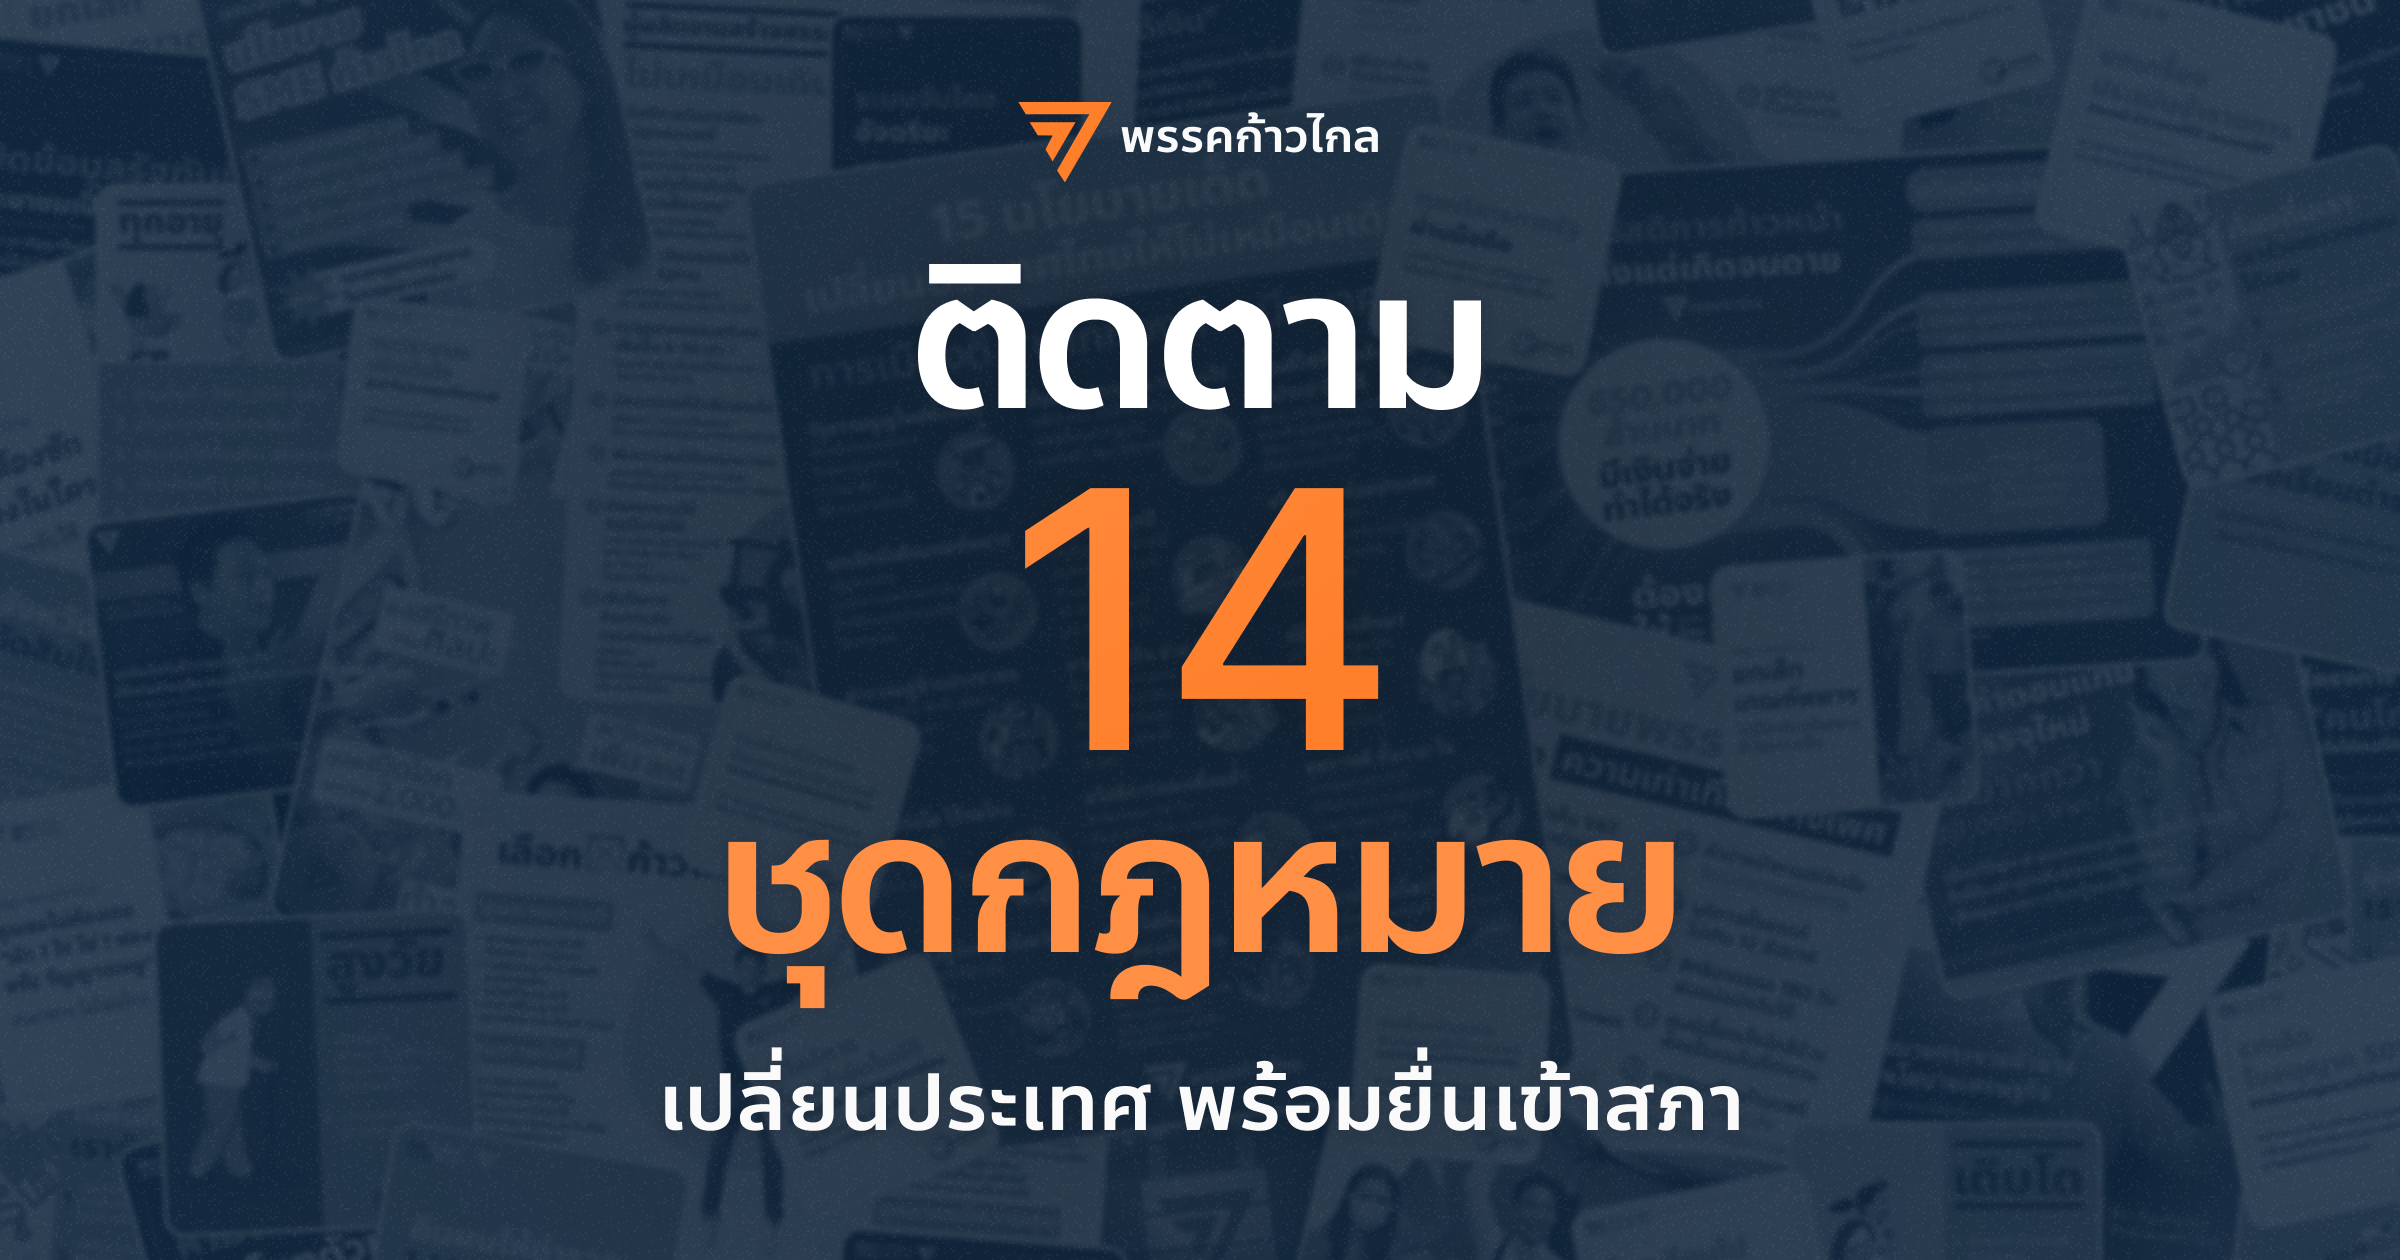
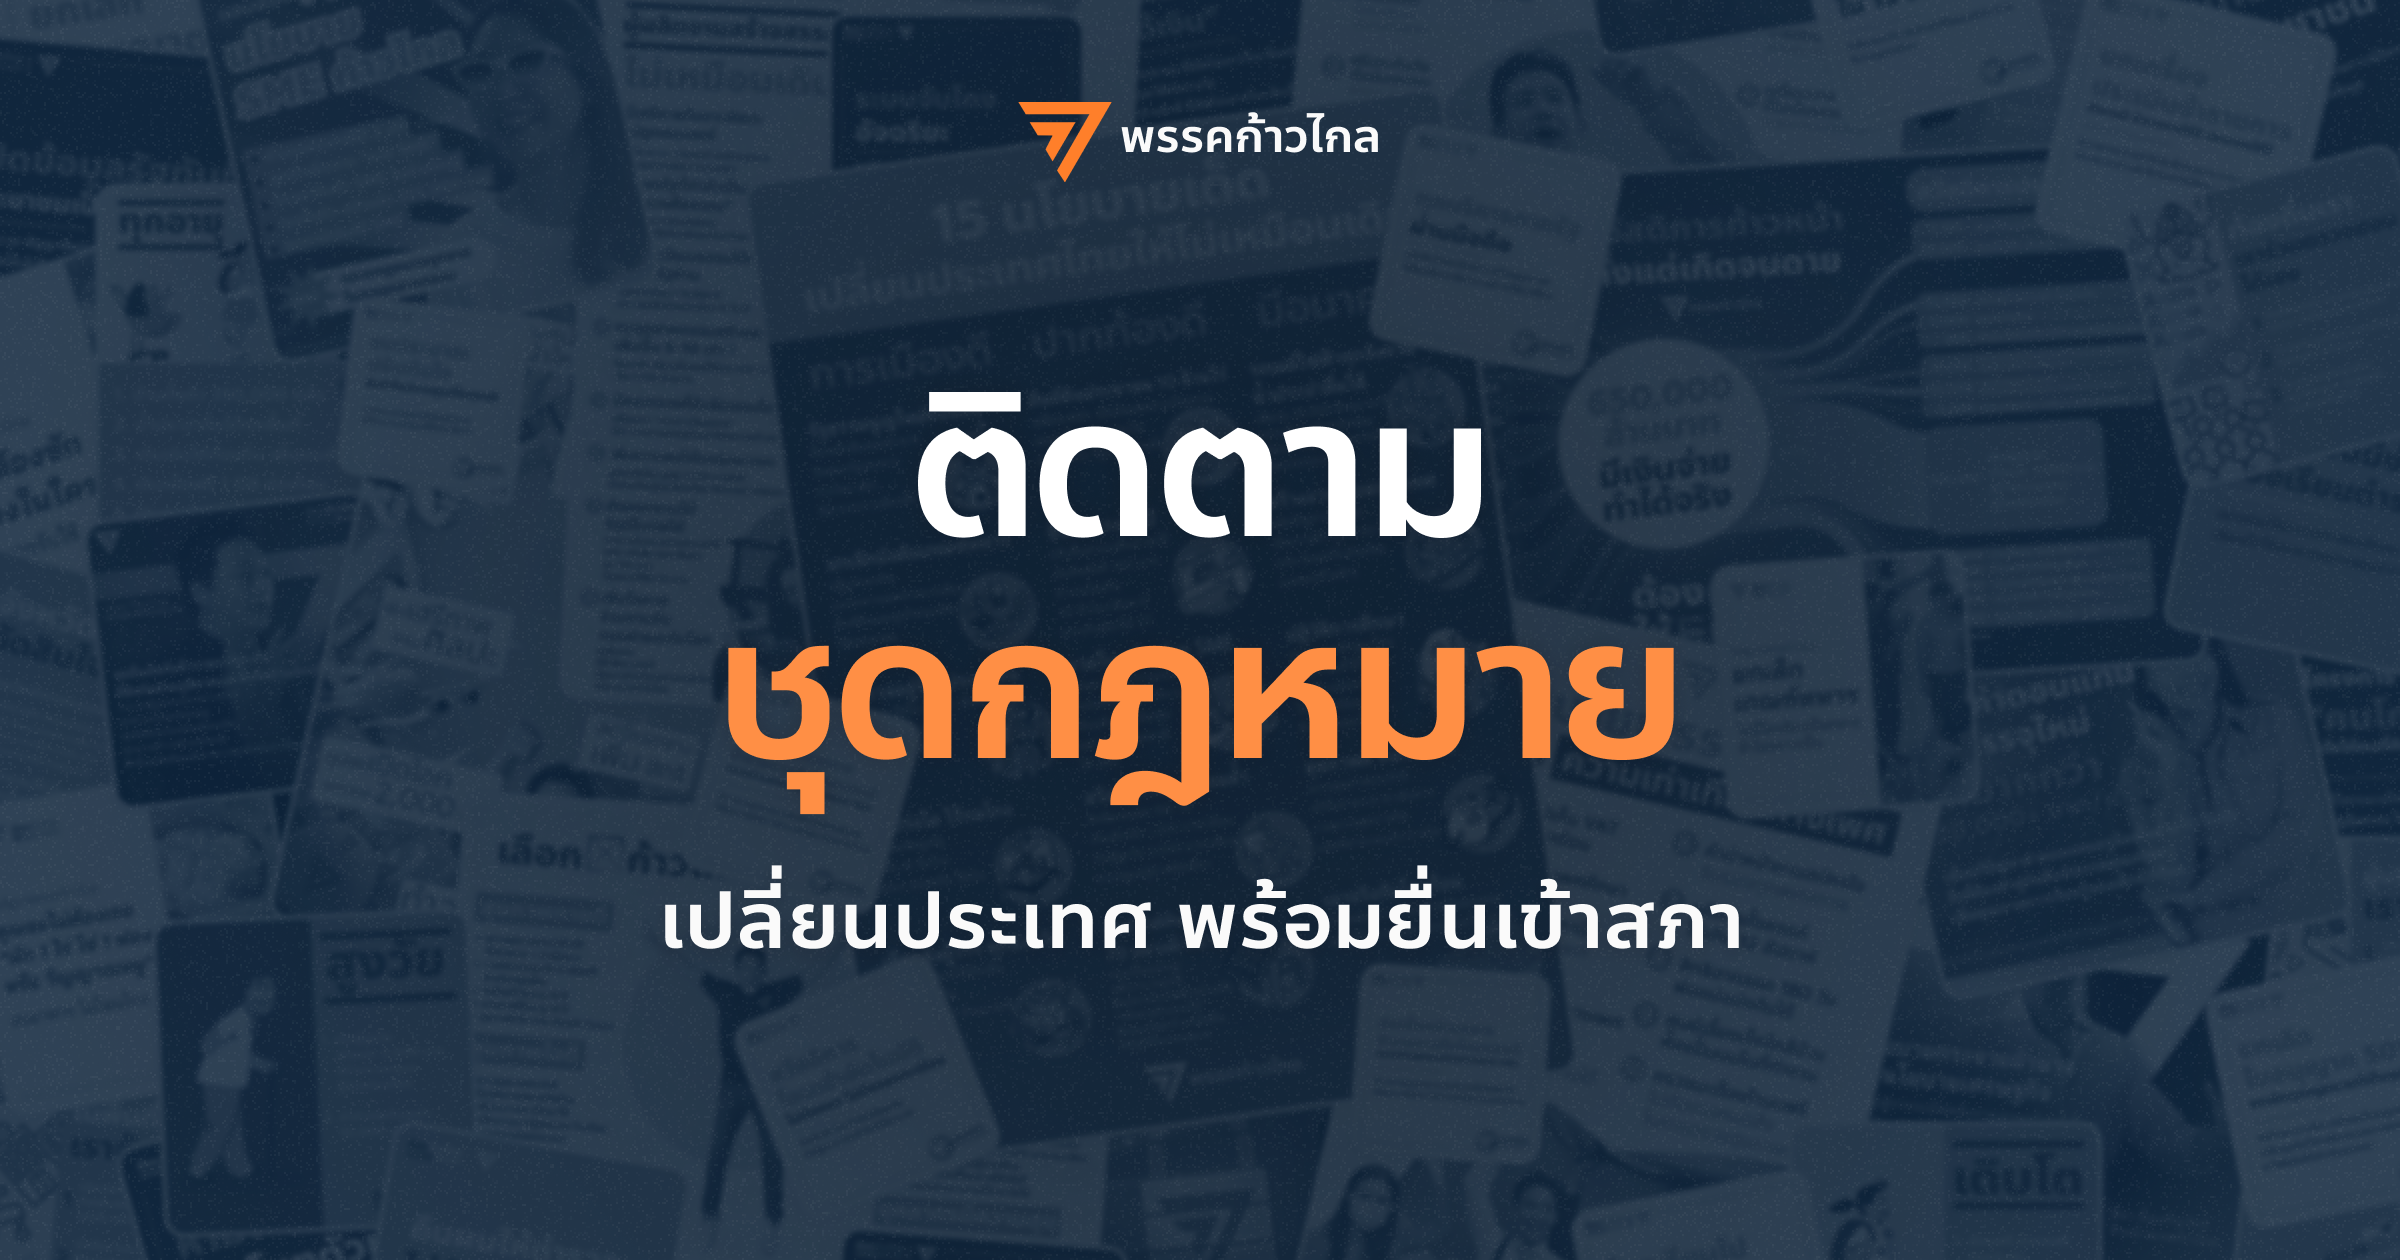
fix: new thumbnail, new description

Changed region(s): [[0.25, 0.1857, 0.75, 0.8048], [0.25, 0.8357, 0.75, 0.8976]]

diff --git a/components/explanation/status-legend.vue b/components/explanation/status-legend.vue
@@ -58,21 +58,21 @@ export default Vue.extend({
           icon: '<svg width="18" height="18" viewBox="0 0 24 24" fill="none" xmlns="http://www.w3.org/2000/svg"><rect width="24" height="24" rx="24" fill="white"/><path fill-rule="evenodd" clip-rule="evenodd" d="M12 24C18.6274 24 24 18.6274 24 12C24 5.37258 18.6274 0 12 0C5.37258 0 0 5.37258 0 12C0 18.6274 5.37258 24 12 24ZM19.2547 12.6757L14.7413 15.9978C14.2631 16.2802 13.65 15.9393 13.65 15.3712V14.2428H6V9.85535H13.65V8.72697C13.6496 8.59904 13.683 8.47326 13.7469 8.36245C13.8109 8.25163 13.903 8.15972 14.014 8.09606C14.125 8.0324 14.2508 7.99926 14.3788 8.00001C14.5067 8.00077 14.6322 8.03539 14.7424 8.10035L19.2547 11.4225C19.3637 11.4868 19.4539 11.5785 19.5166 11.6884C19.5793 11.7983 19.6123 11.9226 19.6123 12.0491C19.6123 12.1756 19.5793 12.2999 19.5166 12.4098C19.4539 12.5197 19.3637 12.6114 19.2547 12.6757Z" fill="#0ea5e9"/></svg>',
           name: 'ยื่นเข้าสภาแล้ว',
           description:
-            'การนำร่างกฎหมายยื่นเข้าสู่สภา เพื่อให้รัฐสภาร่วมให้ความเห็นและพิจารณาร่วม เพื่อตราเป็นกฎหมาย',
+            'ร่างกฎหมายถูกยื่นเข้าสภา เพื่อบรรจุเป็นระเบียบวาระให้สมาชิกรัฐสภาพิจารณาให้ความเห็นชอบ',
         },
         {
           id: 2,
           icon: '<svg width="18" height="18" viewBox="0 0 24 24" fill="none" xmlns="http://www.w3.org/2000/svg"><circle cx="12" cy="12" r="12" fill="white"/><path fill-rule="evenodd" clip-rule="evenodd" d="M12 0C5.37258 0 0 5.37258 0 12C0 18.6274 5.37258 24 12 24C18.6274 24 24 18.6274 24 12C24 5.37258 18.6274 0 12 0ZM6 8C6 7.44772 6.44772 7 7 7H10C10.5523 7 11 7.44772 11 8V16C11 16.5523 10.5523 17 10 17H7C6.44772 17 6 16.5523 6 16V8ZM13 8C13 7.44772 13.4477 7 14 7H17C17.5523 7 18 7.44772 18 8V16C18 16.5523 17.5523 17 17 17H14C13.4477 17 13 16.5523 13 16V8Z" fill="#E91E63"/></svg>',
           name: 'ถูกระงับ/ปัดตก',
           description:
-            'กรณีที่ร่างกฎหมายหยุดไว้ก่อน หรือถูกปัดตกจากสภาฯ',
+            'ร่างกฎหมายถูกปฏิเสธโดยสภา เพราะไม่ถูกบรรจุเป็นระเบียบวาระ หรือสภาลงมติไม่เห็นชอบ',
         },
         {
           id: 3,
           icon: '<svg width="18" height="18" viewBox="0 0 24 24" fill="none" xmlns="http://www.w3.org/2000/svg"><circle cx="12" cy="12" r="12" fill="white"/><path fill-rule="evenodd" clip-rule="evenodd" d="M12 24C18.6274 24 24 18.6274 24 12C24 5.37258 18.6274 0 12 0C5.37258 0 0 5.37258 0 12C0 18.6274 5.37258 24 12 24ZM10.495 5.39L10.595 5.05C11.008 3.65 12.992 3.65 13.405 5.05L13.505 5.39C13.5667 5.59959 13.6745 5.79272 13.8206 5.95521C13.9667 6.11771 14.1472 6.24544 14.3491 6.32906C14.551 6.41268 14.769 6.45006 14.9872 6.43846C15.2053 6.42685 15.4182 6.36656 15.61 6.262L15.921 6.093C17.203 5.394 18.606 6.797 17.908 8.08L17.738 8.39C17.6334 8.58185 17.5731 8.79466 17.5615 9.01285C17.5499 9.23103 17.5873 9.44904 17.6709 9.6509C17.7546 9.85275 17.8823 10.0333 18.0448 10.1794C18.2073 10.3255 18.4004 10.4333 18.61 10.495L18.95 10.595C20.35 11.008 20.35 12.992 18.95 13.405L18.61 13.505C18.4004 13.5667 18.2073 13.6745 18.0448 13.8206C17.8823 13.9667 17.7546 14.1472 17.6709 14.3491C17.5873 14.551 17.5499 14.769 17.5615 14.9872C17.5731 15.2053 17.6334 15.4182 17.738 15.61L17.907 15.921C18.606 17.203 17.203 18.606 15.92 17.908L15.61 17.738C15.4182 17.6334 15.2053 17.5731 14.9872 17.5615C14.769 17.5499 14.551 17.5873 14.3491 17.6709C14.1472 17.7546 13.9667 17.8823 13.8206 18.0448C13.6745 18.2073 13.5667 18.4004 13.505 18.61L13.405 18.95C12.992 20.35 11.008 20.35 10.595 18.95L10.495 18.61C10.4333 18.4004 10.3255 18.2073 10.1794 18.0448C10.0333 17.8823 9.85275 17.7546 9.6509 17.6709C9.44904 17.5873 9.23103 17.5499 9.01285 17.5615C8.79466 17.5731 8.58185 17.6334 8.39 17.738L8.079 17.907C6.797 18.606 5.394 17.203 6.092 15.92L6.262 15.61C6.36656 15.4182 6.42685 15.2053 6.43846 14.9872C6.45006 14.769 6.41268 14.551 6.32906 14.3491C6.24544 14.1472 6.11771 13.9667 5.95521 13.8206C5.79272 13.6745 5.59959 13.5667 5.39 13.505L5.05 13.405C3.65 12.992 3.65 11.008 5.05 10.595L5.39 10.495C6.285 10.231 6.708 9.21 6.262 8.39L6.093 8.079C5.394 6.797 6.797 5.394 8.08 6.092L8.39 6.262C8.58185 6.36656 8.79466 6.42685 9.01285 6.43846C9.23103 6.45006 9.44904 6.41268 9.6509 6.32906C9.85275 6.24544 10.0333 6.11771 10.1794 5.95521C10.3255 5.79272 10.4333 5.59959 10.495 5.39ZM14.0718 14.0718C13.5223 14.6213 12.7771 14.93 12 14.93V14.928C11.2232 14.928 10.4782 14.6194 9.92888 14.0701C9.37959 13.5208 9.071 12.7758 9.071 11.999C9.071 11.2222 9.37959 10.4772 9.92888 9.92788C10.4782 9.37859 11.2232 9.07 12 9.07C12.7771 9.07 13.5223 9.3787 14.0718 9.92818C14.6213 10.4777 14.93 11.2229 14.93 12C14.93 12.7771 14.6213 13.5223 14.0718 14.0718Z" fill="#F4C51F"/></svg>',
           name: 'สภากำลังพิจารณา',
           description:
-            'ร่างกฎหมายที่กำลังถูกพิจารณาอยู่ในสภา ตามแต่วาระที่ร่างกฎหมายนั้น ๆ ไปถึง',
+            'ร่างกฎหมายกำลังถูกพิจารณาตามวาระต่างๆของการประชุมสภา',
         },
         {
           id: 4,

diff --git a/components/promise-card/ncpo.vue b/components/promise-card/ncpo.vue
@@ -1,11 +1,7 @@
 <template>
   <BoxContainer class="bg-status-proposed text-white wv-font-anuphan mt-3">
-    <p class="wv-u4 wv-font-bold">หมายเหตุ : โครงการต่อยอดจากรัฐบาลคสช.</p>
+    <p class="wv-u4 wv-font-bold">lorem</p>
     <p class="wv-u5 pt-2">
-      เป็นนโยบายหรือโครงการที่มีการดำเนินการมาอยู่แล้วตั้งแต่สมัย
-      รัฐบาลคณะรักษาความสงบแห่งชาติ(คสช.) แล้วพรรค
-      การเมือง/รัฐบาลนำมาสานต่อทำต่อเนื่องมา ไม่ได้เริ่มทำ
-      เมื่อได้รับการแต่งตั้งเป็นรัฐบาล เมื่อวันที่ 10 กรกฎาคม พ.ศ. 2562
     </p>
   </BoxContainer>
 </template>

diff --git a/components/landing.vue b/components/landing.vue
@@ -9,7 +9,7 @@
       <StatusAnimation />
       <h2 class="wv-h6 wv-font-bold wv-font-kondolar py-2">ติดตาม</h2>
       <h1 class="wv-h4 wv-font-bold wv-font-kondolar text-mfp-orange pb-2">
-        14 ชุดกฎหมาย<br class="block sm:hidden" /><br class="hidden sm:block" />
+        ชุดกฎหมาย<br class="block sm:hidden" /><br class="hidden sm:block" />
       </h1>
       <h1 class="wv-h4 wv-font-bold wv-font-kondolar pb-2">เปลี่ยนประเทศ</h1>
       <p class="wv-b5 wv-font-kondolar px-4">พร้อมยื่นเข้าสภา</p>

diff --git a/nuxt.config.js b/nuxt.config.js
@@ -20,7 +20,7 @@ export default {
       {
         hid: 'description',
         name: 'description',
-        content: 'ติดตาม 14 ชุดกฎหมาย เปลี่ยนประเทศ พร้อมยื่นเข้าสภา',
+        content: 'ติดตามชุดกฎหมายเปลี่ยนประเทศ พร้อมยื่นเข้าสภา',
       },
       { name: 'format-detection', content: 'telephone=no' },
       ...meta,

diff --git a/components/laws/promise-overview/active-filters.vue b/components/laws/promise-overview/active-filters.vue
@@ -35,7 +35,7 @@
         class="wv-h10 wv-font-kondolar wv-font-black text-mfp-orange"
       >
         <!-- {{ promises.length }} ร่างกฎหมาย -->
-        14 ชุดกฎหมาย
+        ชุดกฎหมาย
       </p>
       <div
         v-if="filters.length > 0"
